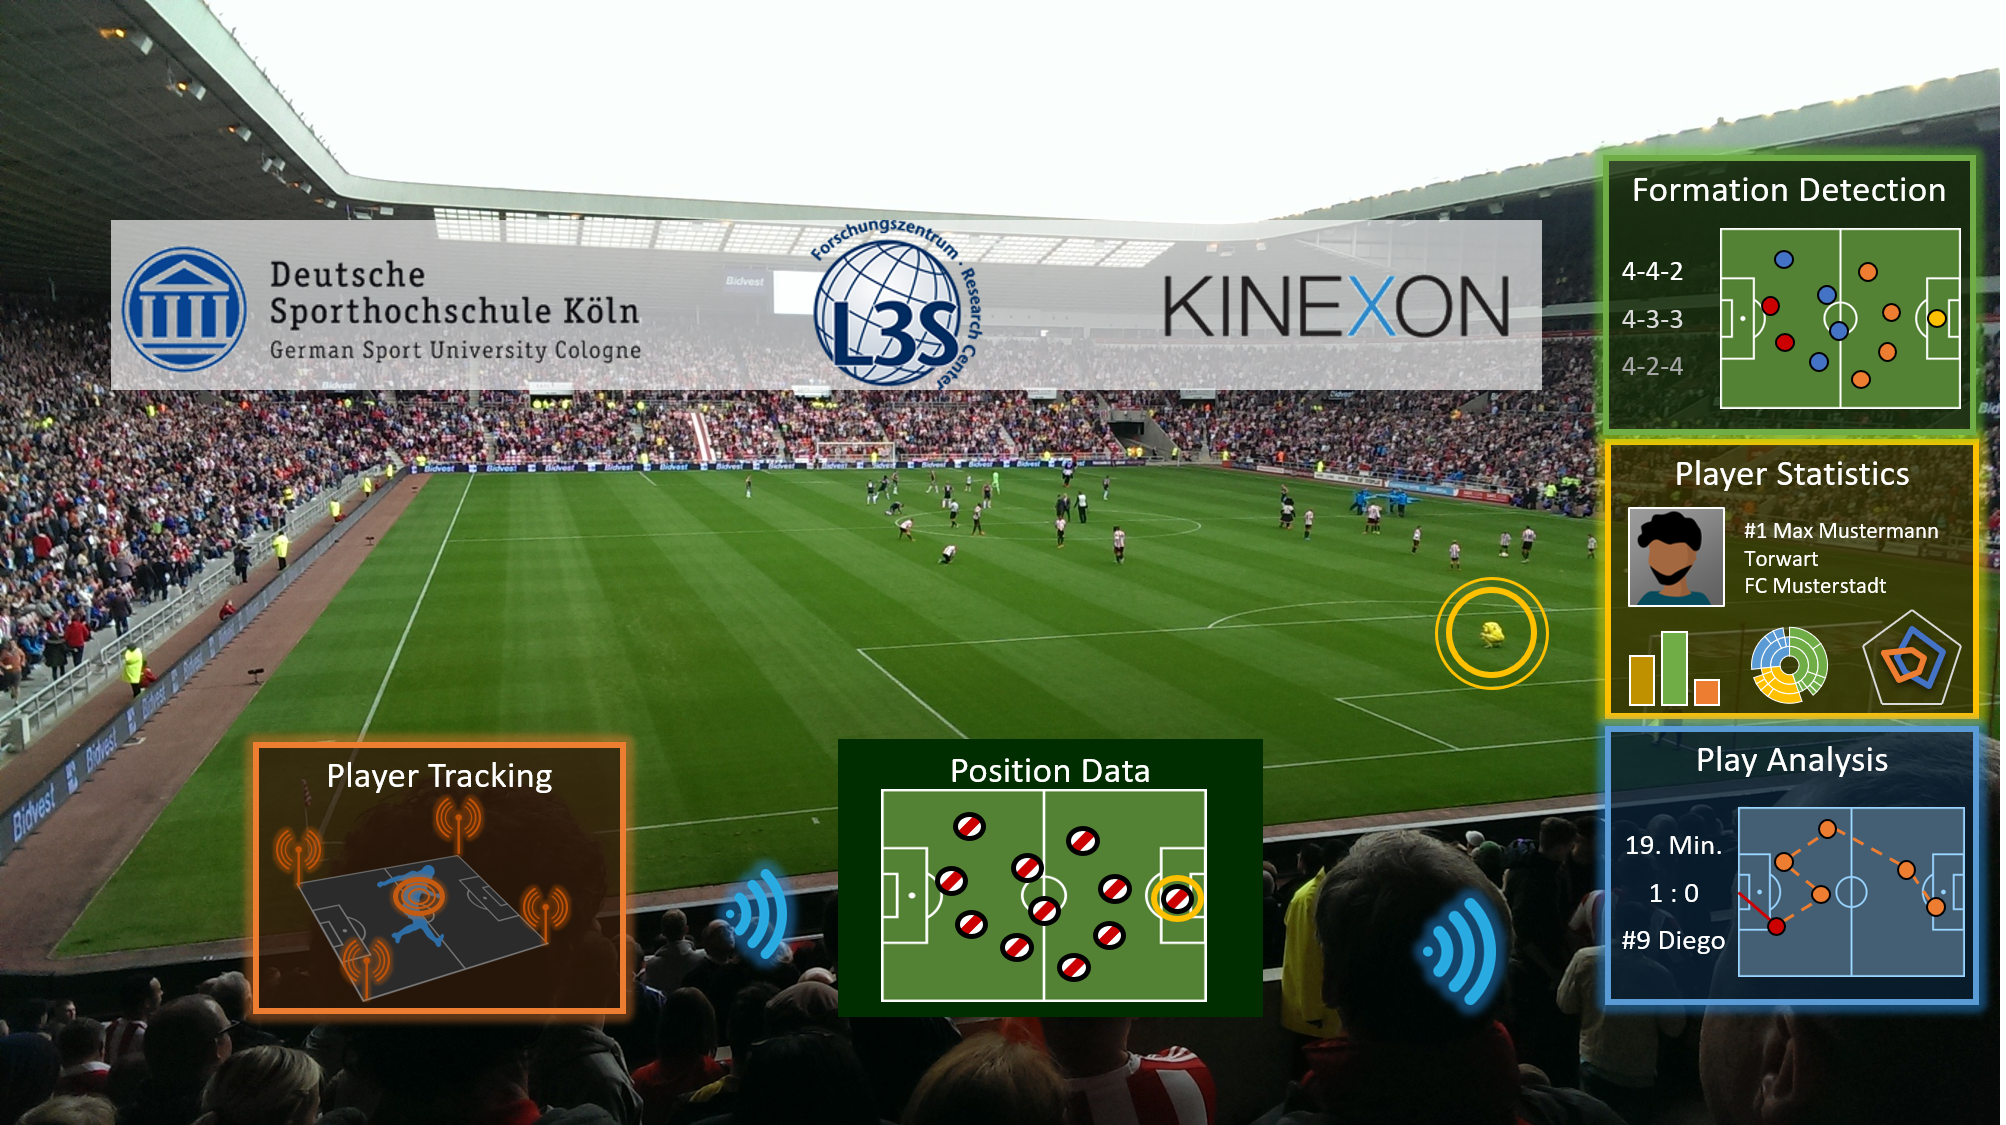
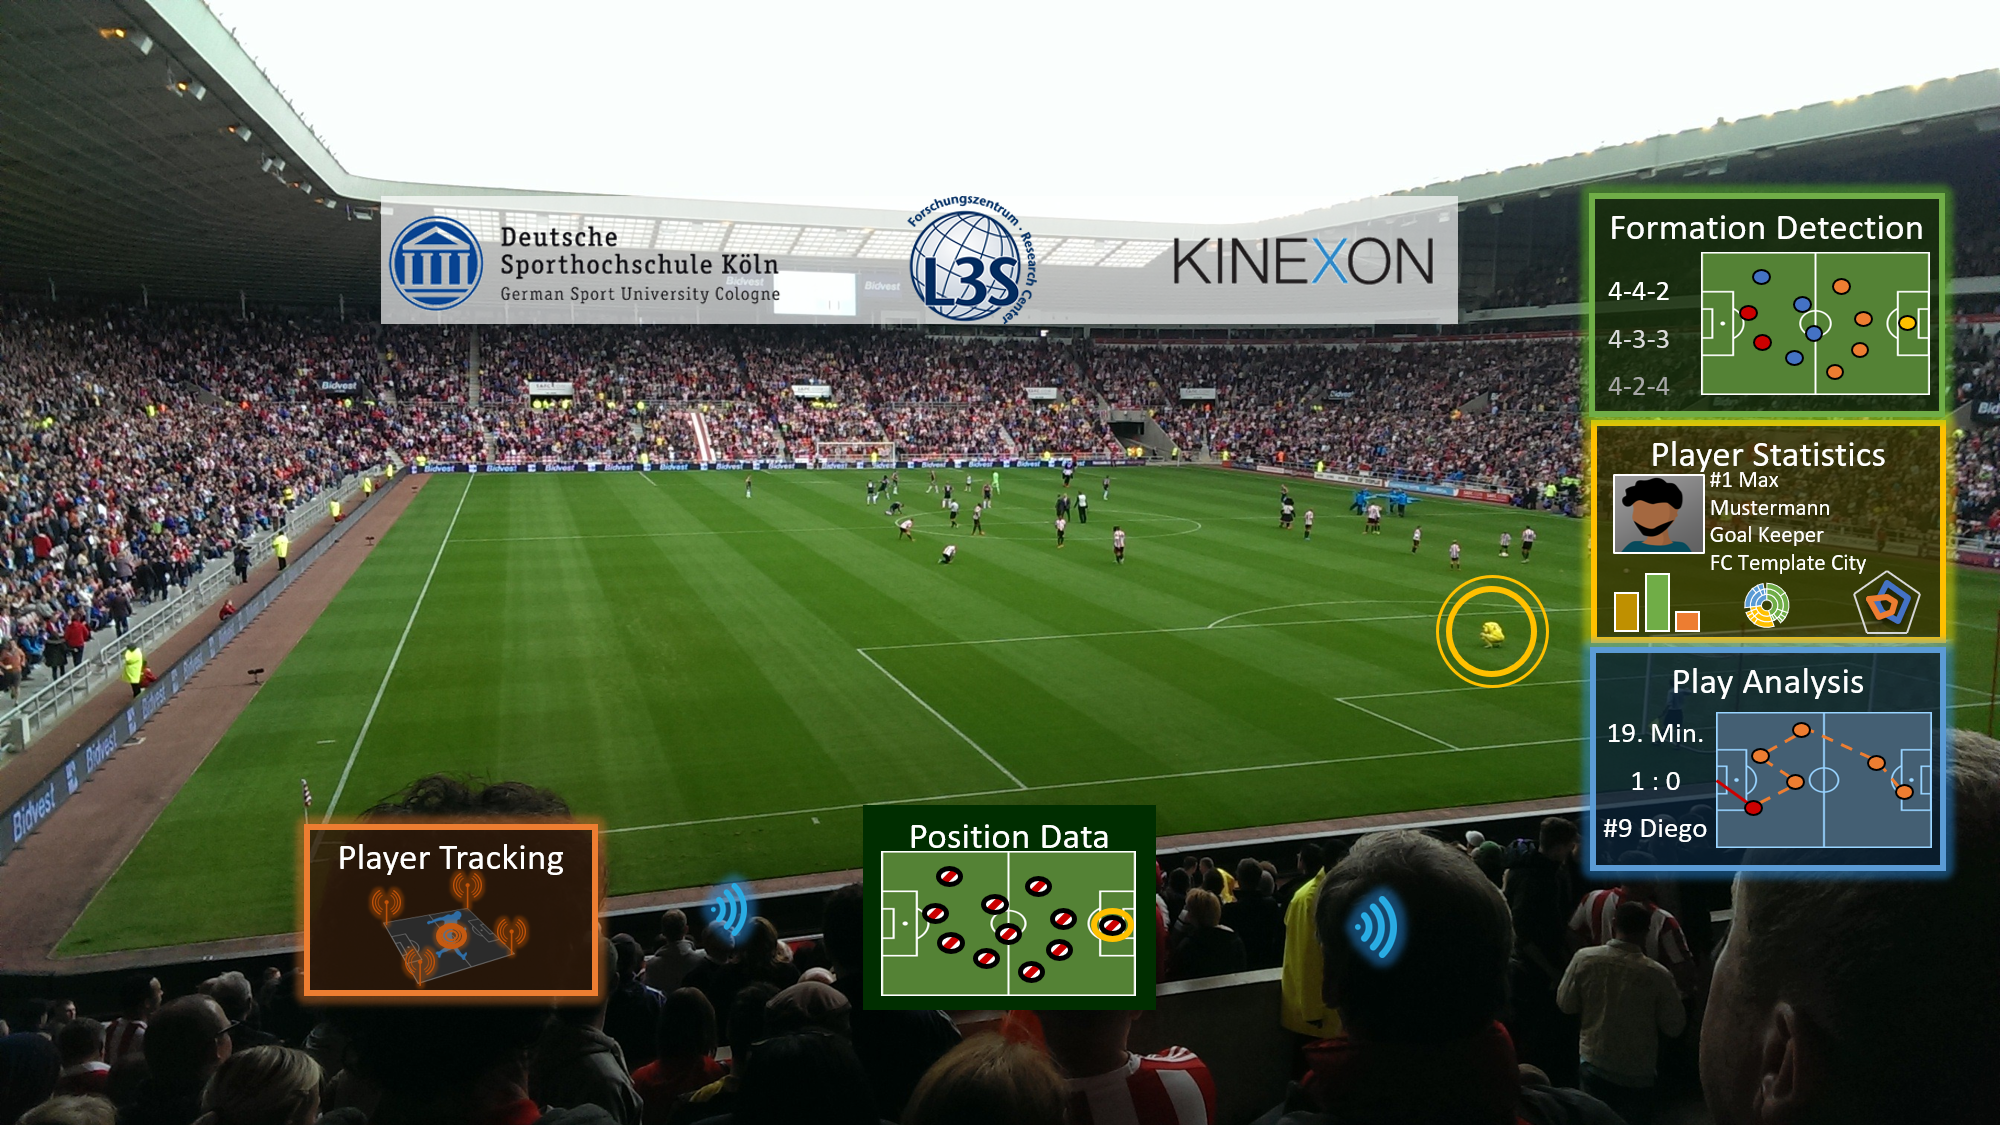
changed cover image

diff --git a/index.html b/index.html
@@ -2,5 +2,5 @@
 layout: home
 title: Multimodale Analyse for Sports Analytics
 subtitle: 
-cover-img: /assets/img/mm4spa-picture4.png
+cover-img: /assets/img/mm4spa-picture1.png
 ---
